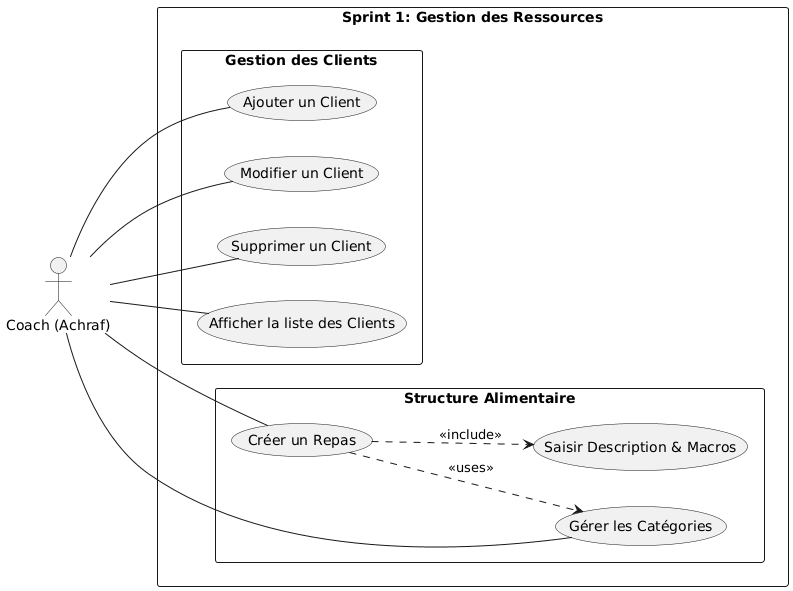
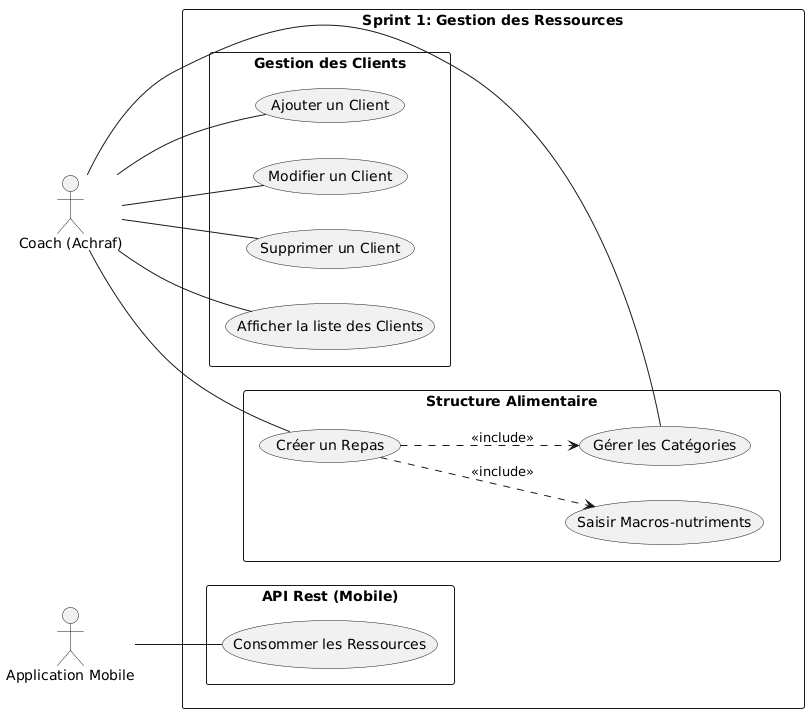
docs: add presentation slides, project report, and sprint use-case diagrams

diff --git a/Presentation/README.md b/Presentation/README.md
@@ -231,12 +231,14 @@ style: |
     <div style="text-align: center; margin: 30px 0;">
         <p style="font-size: 1.2em; font-weight: bold; color: #444; letter-spacing: 1px;">
             PHP <span style="color: #029fcaff;">•</span> Laravel <span style="color: #029fcaff;">•</span> MySQL
+            PHP <span style="color: #029fcaff;">•</span> Laravel <span style="color: #029fcaff;">•</span> PHPNative
         </p>
     </div>
     <ul style="list-style: none; padding: 15px 0 0 0; font-size: 0.9em; border-top: 1px solid #eee;">
       <li><strong>Architecture :</strong> N-Tiers (Service Layer)</li>
       <li><strong>Spatie :</strong> Rôles & Permissions</li>
       <li><strong>Moteur :</strong> Eloquent ORM</li>
+      <li><strong>Test :</strong> PHPUnit</li>
     </ul>
   </div>
 

diff --git a/Rapport/README.md b/Rapport/README.md
@@ -231,6 +231,8 @@ L’objectif est de structurer le développement autour de la valeur métier :
 | **Base Alimentaire** | UC3 | Catégories de repas | Organisation (Petit-déjeuner, Déjeuner, etc.). |
 | **Base Alimentaire** | UC4 | Création de repas | Définition du nom et des ingrédients. |
 | **Nutrition** | UC5 | Saisir Macros | *<<include>>* Saisie des apports (P/G/L/Kcal) par repas. |
+| **API Rest** | UC6 | Consommer les Ressources | *<<include>>* Afficher les données de l'API Rest. |
+
 
 
 #### B. Résultat Attendu du Sprint 1
